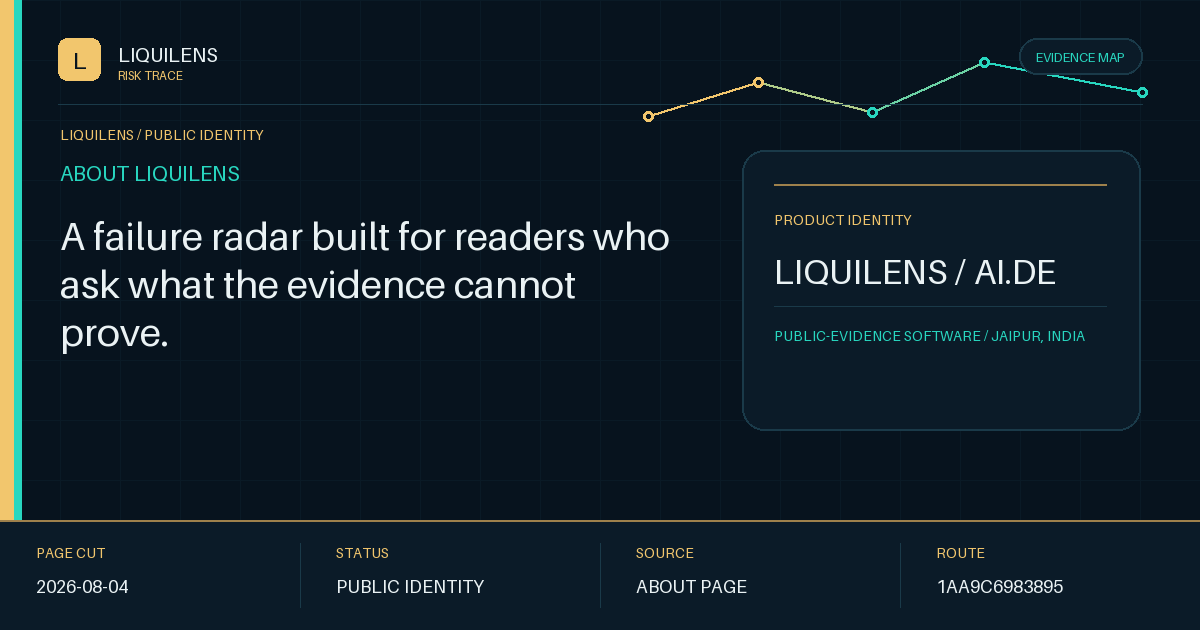
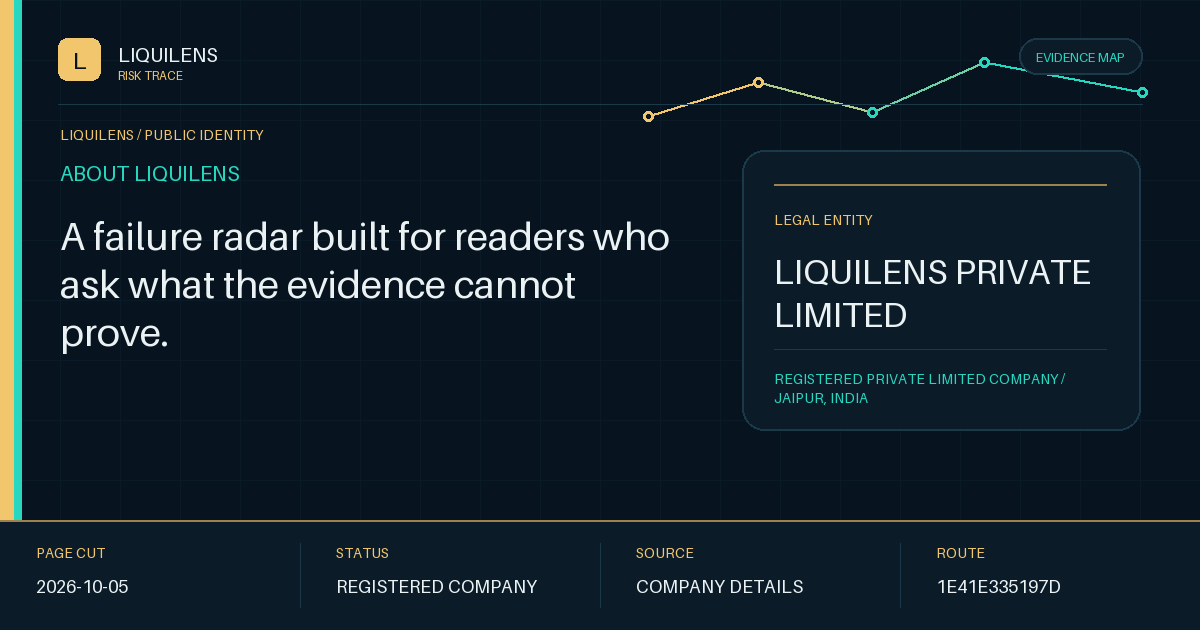
Correct LiquiLens registered company identity across public surfaces (#144)

diff --git a/about/index.html b/about/index.html
@@ -6,7 +6,7 @@
 <meta http-equiv="Content-Security-Policy" content="default-src 'self'; script-src 'self' 'unsafe-inline' https://static.cloudflareinsights.com; style-src 'self' 'unsafe-inline' https://fonts.googleapis.com; font-src 'self' https://fonts.gstatic.com data:; img-src 'self' data: https:; connect-src 'self' https://api.liquilens.in https://api.seiche.info https://demo.liquilens.in https://cloudflareinsights.com; object-src 'none'; base-uri 'self'; form-action 'self'; upgrade-insecure-requests" />
 <meta name="referrer" content="strict-origin-when-cross-origin" />
 <title>About LiquiLens | Products, evidence and operating entity</title>
-<meta name="description" content="LiquiLens products, evidence coverage and operating entity: ai.de, a Udyam registered sole proprietorship, Jaipur, India.">
+<meta name="description" content="LiquiLens is a registered private limited company in India (LIQUILENS PRIVATE LIMITED). Explore products, evidence coverage and company details.">
 <link rel="canonical" href="https://liquilens.in/about/">
 
 
@@ -60,19 +60,19 @@ footer a{color:var(--muted)}
 <meta property="og:site_name" content="LiquiLens">
 <meta property="og:url" content="https://liquilens.in/about/">
 <meta property="og:title" content="Institution risk, with an evidence trail.">
-<meta property="og:description" content="LiquiLens products, evidence coverage and operating entity: ai.de, a Udyam registered sole proprietorship, Jaipur, India.">
-<meta property="og:image" content="https://liquilens.in/about/share.png?v=f9373cba693960ae">
-<meta property="og:image:secure_url" content="https://liquilens.in/about/share.png?v=f9373cba693960ae">
+<meta property="og:description" content="LiquiLens is a registered private limited company in India (LIQUILENS PRIVATE LIMITED). Explore products, evidence coverage and company details.">
+<meta property="og:image" content="https://liquilens.in/about/share.png?v=d677d00952dcc589">
+<meta property="og:image:secure_url" content="https://liquilens.in/about/share.png?v=d677d00952dcc589">
 <meta property="og:image:type" content="image/png">
 <meta property="og:image:width" content="1200">
 <meta property="og:image:height" content="630">
-<meta property="og:image:alt" content="LiquiLens route card for ABOUT LIQUILENS: A failure radar built for readers who ask what the evidence cannot prove. PRODUCT IDENTITY: LIQUILENS / AI.DE. PUBLIC-EVIDENCE SOFTWARE / JAIPUR, INDIA. PAGE CUT 2026-08-04; status PUBLIC IDENTITY.">
+<meta property="og:image:alt" content="LiquiLens route card for ABOUT LIQUILENS: A failure radar built for readers who ask what the evidence cannot prove. LEGAL ENTITY: LIQUILENS PRIVATE LIMITED. REGISTERED PRIVATE LIMITED COMPANY / JAIPUR, INDIA. PAGE CUT 2026-10-05; status REGISTERED COMPANY.">
 <meta name="twitter:card" content="summary_large_image">
 <meta name="twitter:title" content="Institution risk, with an evidence trail.">
-<meta name="twitter:description" content="LiquiLens products, evidence coverage and operating entity: ai.de, a Udyam registered sole proprietorship, Jaipur, India.">
-<meta name="twitter:image" content="https://liquilens.in/about/share.png?v=f9373cba693960ae">
-<meta name="twitter:image:alt" content="LiquiLens route card for ABOUT LIQUILENS: A failure radar built for readers who ask what the evidence cannot prove. PRODUCT IDENTITY: LIQUILENS / AI.DE. PUBLIC-EVIDENCE SOFTWARE / JAIPUR, INDIA. PAGE CUT 2026-08-04; status PUBLIC IDENTITY.">
-<script type="application/ld+json" data-social-card>{"@context":"https://schema.org","@type":"WebPage","@id":"https://liquilens.in/about/#social-card","url":"https://liquilens.in/about/","image":"https://liquilens.in/about/share.png?v=f9373cba693960ae","primaryImageOfPage":{"@type":"ImageObject","contentUrl":"https://liquilens.in/about/share.png?v=f9373cba693960ae","width":1200,"height":630,"caption":"LiquiLens route card for ABOUT LIQUILENS: A failure radar built for readers who ask what the evidence cannot prove. PRODUCT IDENTITY: LIQUILENS / AI.DE. PUBLIC-EVIDENCE SOFTWARE / JAIPUR, INDIA. PAGE CUT 2026-08-04; status PUBLIC IDENTITY."}}</script>
+<meta name="twitter:description" content="LiquiLens is a registered private limited company in India (LIQUILENS PRIVATE LIMITED). Explore products, evidence coverage and company details.">
+<meta name="twitter:image" content="https://liquilens.in/about/share.png?v=d677d00952dcc589">
+<meta name="twitter:image:alt" content="LiquiLens route card for ABOUT LIQUILENS: A failure radar built for readers who ask what the evidence cannot prove. LEGAL ENTITY: LIQUILENS PRIVATE LIMITED. REGISTERED PRIVATE LIMITED COMPANY / JAIPUR, INDIA. PAGE CUT 2026-10-05; status REGISTERED COMPANY.">
+<script type="application/ld+json" data-social-card>{"@context":"https://schema.org","@type":"WebPage","@id":"https://liquilens.in/about/#social-card","url":"https://liquilens.in/about/","image":"https://liquilens.in/about/share.png?v=d677d00952dcc589","primaryImageOfPage":{"@type":"ImageObject","contentUrl":"https://liquilens.in/about/share.png?v=d677d00952dcc589","width":1200,"height":630,"caption":"LiquiLens route card for ABOUT LIQUILENS: A failure radar built for readers who ask what the evidence cannot prove. LEGAL ENTITY: LIQUILENS PRIVATE LIMITED. REGISTERED PRIVATE LIMITED COMPANY / JAIPUR, INDIA. PAGE CUT 2026-10-05; status REGISTERED COMPANY."}}</script>
 <!-- SOCIAL-CARD:END -->
 </head>
 <body class="family-page">
@@ -102,7 +102,7 @@ footer a{color:var(--muted)}
   <p class="body"><a href="/start/">Run a public evidence request</a> · <a href="/research/">Inspect the validation record</a> · <a href="/developers/institutions/">Connect an agent or application</a>.</p>
 
   <h2>The entity</h2>
-  <p class="body">LiquiLens is a product of <b>ai.de</b>, a Udyam registered sole proprietorship based in Jaipur, India. That is the one legal name behind everything on this site, and the name to put on a vendor form. Procurement and onboarding paperwork, including registration details, is available on request by email.</p>
+  <p class="body">LiquiLens is a registered private limited company based in Jaipur, India. Its legal name is <b>LIQUILENS PRIVATE LIMITED</b>, incorporated on 5 August 2026 with Corporate Identification Number (CIN) <b>U62011RJ2026PTC116792</b>. Use LIQUILENS PRIVATE LIMITED on vendor forms and company paperwork. Procurement and onboarding paperwork, including registration details, is available on request by email.</p>
 
   <h2>The family</h2>
   <ul class="plain">
@@ -122,7 +122,7 @@ footer a{color:var(--muted)}
 
 <footer><div class="wrap">
   © 2026 LiquiLens · <a href="/">the failure radar</a> · <a href="/about/">about</a> · <a href="/security/">security</a> · <a href="/status/">status</a> · <a href="/privacy/">privacy</a> · <a href="/terms/">terms</a> · <a href="/ship-log/">ship log</a> · <a href="https://x.com/LiquiLens" target="_blank" rel="noopener">@LiquiLens on X</a>
-  <div style="margin-top:8px">LiquiLens is a product of ai.de, a Udyam registered sole proprietorship, Jaipur, India. · <a href="mailto:mrinal@liquilens.in">Contact LiquiLens</a> · Updated 18 August 2026</div>
+  <div style="margin-top:8px">LiquiLens is a registered private limited company based in Jaipur, India (legal name: LIQUILENS PRIVATE LIMITED). · <a href="mailto:mrinal@liquilens.in">Contact LiquiLens</a> · Updated 5 October 2026</div>
 </div></footer>
 
 <script type="module" src="/research-ui/context.js"></script></body>

diff --git a/ship-log/index.html b/ship-log/index.html
@@ -96,6 +96,9 @@ footer a{color:var(--muted)}
 
 <section><div class="wrap">
 
+  <h2 class="month">October 2026 · company details</h2>
+  <div class="entry"><span class="d">05 Oct</span><span class="tag gold">COMPANY</span><span class="t"><b>Registered company identity corrected:</b> LiquiLens is a registered private limited company in India under the legal name LIQUILENS PRIVATE LIMITED. Public company details, terms, footers, discovery metadata and the About-page share card now use the registered company name. <a href="/about/">Company details →</a></span></div>
+
   <h2 class="month">September 2026 · release truth</h2>
   <div class="entry"><span class="d">02 Sep</span><span class="tag gold">ORDER GUARD</span><span class="t"><b>Evidence Carrier 0.18.0 puts Trade Safety Receipt v1 on the paper-order path:</b> synchronous and asynchronous fail-closed guards require a fresh, exact, HMAC-authenticated <code>pass</code> receipt before an operator callback can run. Signed candidate <code>906ca033a96ea862ab813c64db2a6b01c5ce8c4f</code>, annotated tag object <code>42dd412ef27b470841b71b8bc73c0ed63a5e4a6b</code>, attested release workflow <code>33593840364</code> and multi-architecture container workflow <code>33593840346</code> bind the public wheel, MCPB and OCI artifacts. The v1 schemas remain byte-identical; live submission remains blocked pending durable broker idempotency and reconciliation. <a href="/protocol/trade-safety/">Protocol →</a></span></div>
   <div class="entry"><span class="d">02 Sep</span><span class="tag gold">TRADE SAFETY</span><span class="t"><b>Trade Safety Receipt v1 ships as open, order-bound infrastructure in Evidence Carrier 0.17.1:</b> four strict machine contracts, FDC3 context and intents, an offline verifier and a deployable sandbox are bound to signed tag commit <code>a74274236e177404c2d254541e6a4110a4ce8a0d</code>, attested release workflow <code>33589489958</code> and the official Registry active/latest MCPB digest. Seiche and Undertow are mandatory inputs, LiquiLens is conditional, and no public hosted gateway, broker credential or order-execution endpoint is claimed. <a href="/protocol/trade-safety/">Protocol →</a></span></div>
@@ -194,7 +197,7 @@ footer a{color:var(--muted)}
 
 <footer><div class="wrap">
   © 2026 LiquiLens · <a href="/">the failure radar</a> · <a href="/research/">research</a> · <a href="/us/">the US bank layer</a> · <a href="https://seiche.info" target="_blank" rel="noopener">Seiche, free and open source</a> · <a href="https://x.com/LiquiLens" target="_blank" rel="noopener">@LiquiLens on X</a>
-  <div style="margin-top:8px">LiquiLens is a product of ai.de, a Udyam registered sole proprietorship, Jaipur, India.</div>
+  <div style="margin-top:8px">LiquiLens is a registered private limited company based in Jaipur, India (legal name: LIQUILENS PRIVATE LIMITED).</div>
 </div></footer>
 
 <script type="module" src="/research-ui/context.js"></script></body>

diff --git a/index.html b/index.html
@@ -44,7 +44,7 @@
       "@type": "Organization",
       "@id": "https://liquilens.in/#org",
       "name": "LiquiLens",
-      "legalName": "ai.de",
+      "legalName": "LIQUILENS PRIVATE LIMITED",
       "alternateName": "LiquiLens Treasury",
       "address": {
         "@type": "PostalAddress",
@@ -954,7 +954,7 @@
 
 </div></details>
 </main>
-<footer class="family-footer"><div><a class="family-brand" href="/">LiquiLens</a><p>Institution, funding and market evidence.</p></div><nav aria-label="Footer"><a href="/about/">About</a><a href="/use-cases/">Use cases</a><a href="/research/">Research</a><a class="nav-link" href="/articles/">Articles</a><a class="nav-link" href="/desk/">Intelligence desk</a><a href="/world-economy/">World economy</a><a href="/developers/">Developers</a><a href="/security/">Security</a><a href="/privacy/">Privacy</a><a href="/terms/">Terms</a><a href="mailto:mrinal@liquilens.in">Contact</a><a data-funnel="investor_demo_clicked" href="https://demo.liquilens.in/?demo=1">Investor demo · sign in required</a></nav><p>LiquiLens is a product of ai.de, Jaipur, India. Public evidence supports review; it does not certify regulatory compliance, provide a credit rating or predict certain default.</p><a href="https://myquantdoesntspeakenglish.com/">Read the plain-English edition</a><p><a href="/guides/how-to-assess-bank-risk/">How to assess bank risk from public financial disclosures</a></p>
+<footer class="family-footer"><div><a class="family-brand" href="/">LiquiLens</a><p>Institution, funding and market evidence.</p></div><nav aria-label="Footer"><a href="/about/">About</a><a href="/use-cases/">Use cases</a><a href="/research/">Research</a><a class="nav-link" href="/articles/">Articles</a><a class="nav-link" href="/desk/">Intelligence desk</a><a href="/world-economy/">World economy</a><a href="/developers/">Developers</a><a href="/security/">Security</a><a href="/privacy/">Privacy</a><a href="/terms/">Terms</a><a href="mailto:mrinal@liquilens.in">Contact</a><a data-funnel="investor_demo_clicked" href="https://demo.liquilens.in/?demo=1">Investor demo · sign in required</a></nav><p>LiquiLens is a registered private limited company based in Jaipur, India (legal name: LIQUILENS PRIVATE LIMITED). Public evidence supports review; it does not certify regulatory compliance, provide a credit rating or predict certain default.</p><a href="https://myquantdoesntspeakenglish.com/">Read the plain-English edition</a><p><a href="/guides/how-to-assess-bank-risk/">How to assess bank risk from public financial disclosures</a></p>
 </footer>
 <script type="module" src="/product-home.js"></script>
 <script type="module" src="/research-ui/institutions.mjs"></script>

diff --git a/terms/index.html b/terms/index.html
@@ -107,13 +107,13 @@ footer a{color:var(--muted)}
   <p class="body">The site, demo and public API are provided as is, without warranty of any kind. Public data sources lag, revise and occasionally break, and the pages here say so where it matters. To the maximum extent permitted by law, liability arising from use of these public surfaces is excluded; where it cannot be excluded, it is limited to the amount you paid to use them, which for the public surfaces is nothing.</p>
 
   <h2>The boring parts</h2>
-  <p class="body">These terms are governed by the laws of India, with courts at Jaipur, Rajasthan having jurisdiction. Changes to these terms are dated in the <a href="/ship-log/">ship log</a>. The operating entity is ai.de, a Udyam registered sole proprietorship, Jaipur, India. Contact: <a href="mailto:mrinal@liquilens.in?subject=Terms">Contact LiquiLens</a>.</p>
-  <p class="body mono">Effective 20 July 2026.</p>
+  <p class="body">These terms are governed by the laws of India, with courts at Jaipur, Rajasthan having jurisdiction. Changes to these terms are dated in the <a href="/ship-log/">ship log</a>. The operating entity is LIQUILENS PRIVATE LIMITED, a registered private limited company based in Jaipur, India. Contact: <a href="mailto:mrinal@liquilens.in?subject=Terms">Contact LiquiLens</a>.</p>
+  <p class="body mono">Effective 5 October 2026.</p>
 </div></section>
 
 <footer><div class="wrap">
   © 2026 LiquiLens · <a href="/">the failure radar</a> · <a href="/about/">about</a> · <a href="/security/">security</a> · <a href="/status/">status</a> · <a href="/privacy/">privacy</a> · <a href="/terms/">terms</a> · <a href="/ship-log/">ship log</a> · <a href="https://x.com/LiquiLens" target="_blank" rel="noopener">@LiquiLens on X</a>
-  <div style="margin-top:8px">LiquiLens is a product of ai.de, a Udyam registered sole proprietorship, Jaipur, India. · <a href="mailto:mrinal@liquilens.in">Contact LiquiLens</a> · Updated 20 July 2026</div>
+  <div style="margin-top:8px">LiquiLens is a registered private limited company based in Jaipur, India (legal name: LIQUILENS PRIVATE LIMITED). · <a href="mailto:mrinal@liquilens.in">Contact LiquiLens</a> · Updated 5 October 2026</div>
 </div></footer>
 
 <script type="module" src="/research-ui/context.js"></script></body>

diff --git a/pilot/index.html b/pilot/index.html
@@ -82,7 +82,7 @@ Preferred deployment (self-hosted or managed):</textarea>
 
   <section class="close"><div class="shell"><div class="label">Next step</div><h2>Bring one book and one baseline. We will define the proof together.</h2><p>Send the institution, your role, approximate book or AUM size, current early-warning process and preferred deployment boundary. You will get a scoped response from LiquiLens.</p><div class="actions"><a class="btn" data-event="email_clicked" href="mailto:mrinal@liquilens.in?subject=LiquiLens%20paid%20proof%20pilot&amp;body=Institution%3A%0ARole%3A%0ABook%20or%20AUM%20size%3A%0ACurrent%20DPD%20or%20EWS%20process%3A%0APreferred%20deployment%20(self-hosted%20or%20managed)%3A%0A">Contact LiquiLens</a><a class="btn alt" href="/security/">Review the security posture</a></div></div></section>
 </main>
-<footer class="shell foot">© 2026 LiquiLens · a product of ai.de, Jaipur, India · Screening research, not a credit rating or investment advice · <a href="/privacy/">Privacy</a> · <a href="/terms/">Terms</a> · <a href="mailto:mrinal@liquilens.in">Contact LiquiLens</a></footer>
+<footer class="shell foot">© 2026 LiquiLens · LIQUILENS PRIVATE LIMITED · registered company · Jaipur, India · Screening research, not a credit rating or investment advice · <a href="/privacy/">Privacy</a> · <a href="/terms/">Terms</a> · <a href="mailto:mrinal@liquilens.in">Contact LiquiLens</a></footer>
 <script src="/access/enquiry-copy.js" defer></script>
 <script src="/pilot/app.js" defer></script>
 <script type="module" src="/research-ui/context.js"></script></body>

diff --git a/privacy/index.html b/privacy/index.html
@@ -115,7 +115,7 @@ footer a{color:var(--muted)}
 
 <footer><div class="wrap">
   © 2026 LiquiLens · <a href="/">the failure radar</a> · <a href="/about/">about</a> · <a href="/security/">security</a> · <a href="/status/">status</a> · <a href="/privacy/">privacy</a> · <a href="/terms/">terms</a> · <a href="/ship-log/">ship log</a> · <a href="https://x.com/LiquiLens" target="_blank" rel="noopener">@LiquiLens on X</a>
-  <div style="margin-top:8px">LiquiLens is a product of ai.de, a Udyam registered sole proprietorship, Jaipur, India. · <a href="mailto:mrinal@liquilens.in">Contact LiquiLens</a> · Updated 23 August 2026</div>
+  <div style="margin-top:8px">LiquiLens is a registered private limited company based in Jaipur, India (legal name: LIQUILENS PRIVATE LIMITED). · <a href="mailto:mrinal@liquilens.in">Contact LiquiLens</a> · Updated 5 October 2026</div>
 </div></footer>
 
 <script type="module" src="/research-ui/context.js"></script></body>

diff --git a/status/index.html b/status/index.html
@@ -171,7 +171,7 @@ footer a{color:var(--muted)}
 
 <footer><div class="wrap">
   © 2026 LiquiLens · <a href="/">the failure radar</a> · <a href="/about/">about</a> · <a href="/security/">security</a> · <a href="/status/">status</a> · <a href="/privacy/">privacy</a> · <a href="/terms/">terms</a> · <a href="/ship-log/">ship log</a> · <a href="https://x.com/LiquiLens" target="_blank" rel="noopener">@LiquiLens on X</a>
-  <div style="margin-top:8px">LiquiLens is a product of ai.de, a Udyam registered sole proprietorship, Jaipur, India. · <a href="mailto:mrinal@liquilens.in">Contact LiquiLens</a> · Updated 29 August 2026</div>
+  <div style="margin-top:8px">LiquiLens is a registered private limited company based in Jaipur, India (legal name: LIQUILENS PRIVATE LIMITED). · <a href="mailto:mrinal@liquilens.in">Contact LiquiLens</a> · Updated 5 October 2026</div>
 </div></footer>
 
 <script type="module" src="/research-ui/context.js"></script></body>

diff --git a/security/index.html b/security/index.html
@@ -128,7 +128,7 @@ footer a{color:var(--muted)}
 
 <footer><div class="wrap">
   © 2026 LiquiLens · <a href="/">the failure radar</a> · <a href="/about/">about</a> · <a href="/security/">security</a> · <a href="/status/">status</a> · <a href="/privacy/">privacy</a> · <a href="/terms/">terms</a> · <a href="/ship-log/">ship log</a> · <a href="https://x.com/LiquiLens" target="_blank" rel="noopener">@LiquiLens on X</a>
-  <div style="margin-top:8px">LiquiLens is a product of ai.de, a Udyam registered sole proprietorship, Jaipur, India. · <a href="mailto:mrinal@liquilens.in">Contact LiquiLens</a> · Updated 9 August 2026</div>
+  <div style="margin-top:8px">LiquiLens is a registered private limited company based in Jaipur, India (legal name: LIQUILENS PRIVATE LIMITED). · <a href="mailto:mrinal@liquilens.in">Contact LiquiLens</a> · Updated 5 October 2026</div>
 </div></footer>
 
 <script type="module" src="/research-ui/context.js"></script></body>

diff --git a/access/index.html b/access/index.html
@@ -170,7 +170,7 @@ Fifteen names or FDIC certs:
     </div>
   </section>
 </main>
-<footer class="shell foot">© 2026 LiquiLens · a product of ai.de, Jaipur, India · Screening research, not a credit rating or investment advice · <a href="/privacy/">Privacy</a> · <a href="/terms/">Terms</a> · <a href="mailto:mrinal@liquilens.in">Contact LiquiLens</a></footer>
+<footer class="shell foot">© 2026 LiquiLens · LIQUILENS PRIVATE LIMITED · registered company · Jaipur, India · Screening research, not a credit rating or investment advice · <a href="/privacy/">Privacy</a> · <a href="/terms/">Terms</a> · <a href="mailto:mrinal@liquilens.in">Contact LiquiLens</a></footer>
 <script src="/access/enquiry-copy.js" defer></script>
 <script src="/access/app.js" defer></script>
 <script type="module" src="/research-ui/context.js"></script></body>

diff --git a/tools/ews-coverage-check/index.html b/tools/ews-coverage-check/index.html
@@ -184,7 +184,7 @@
       </div>
     </section>
   </main>
-  <footer class="shell foot">© 2026 LiquiLens · a product of ai.de, Jaipur, India · Process self-assessment, not a credit rating or investment advice · <a href="/privacy/">Privacy</a> · <a href="/terms/">Terms</a> · <a href="mailto:mrinal@liquilens.in">Contact LiquiLens</a></footer>
+  <footer class="shell foot">© 2026 LiquiLens · LIQUILENS PRIVATE LIMITED · registered company · Jaipur, India · Process self-assessment, not a credit rating or investment advice · <a href="/privacy/">Privacy</a> · <a href="/terms/">Terms</a> · <a href="mailto:mrinal@liquilens.in">Contact LiquiLens</a></footer>
   <script src="/tools/ews-coverage-check/app.js" defer></script>
 <script type="module" src="/research-ui/context.js"></script></body>
 </html>

diff --git a/guides/rbi-nbfc-early-warning-system/index.html b/guides/rbi-nbfc-early-warning-system/index.html
@@ -331,6 +331,6 @@
     </div>
   </main>
 
-  <footer class="shell foot">© 2026 LiquiLens · a product of ai.de, Jaipur, India · Educational material, not legal or compliance advice · LiquiLens is not approved or endorsed by RBI · <a href="/privacy/">Privacy</a> · <a href="/terms/">Terms</a> · <a href="mailto:mrinal@liquilens.in">Contact LiquiLens</a></footer>
+  <footer class="shell foot">© 2026 LiquiLens · LIQUILENS PRIVATE LIMITED · registered company · Jaipur, India · Educational material, not legal or compliance advice · LiquiLens is not approved or endorsed by RBI · <a href="/privacy/">Privacy</a> · <a href="/terms/">Terms</a> · <a href="mailto:mrinal@liquilens.in">Contact LiquiLens</a></footer>
 <script type="module" src="/research-ui/context.js"></script></body>
 </html>

diff --git a/research/index.html b/research/index.html
@@ -327,7 +327,7 @@ footer a{color:var(--muted)}
 
 <footer><div class="wrap">
   © 2026 LiquiLens · <a href="/">the failure radar</a> · <a href="/us/">the US bank layer</a> · <a href="/ship-log/">ship log</a> · <a href="https://seiche.info" target="_blank" rel="noopener">Seiche, free and open source</a> · <a href="https://x.com/LiquiLens" target="_blank" rel="noopener">@LiquiLens on X</a>
-  <div style="margin-top:8px">LiquiLens is a product of ai.de, a Udyam registered sole proprietorship, Jaipur, India.</div>
+  <div style="margin-top:8px">LiquiLens is a registered private limited company based in Jaipur, India (legal name: LIQUILENS PRIVATE LIMITED).</div>
 </div></footer>
 
 <script type="application/ld+json">
